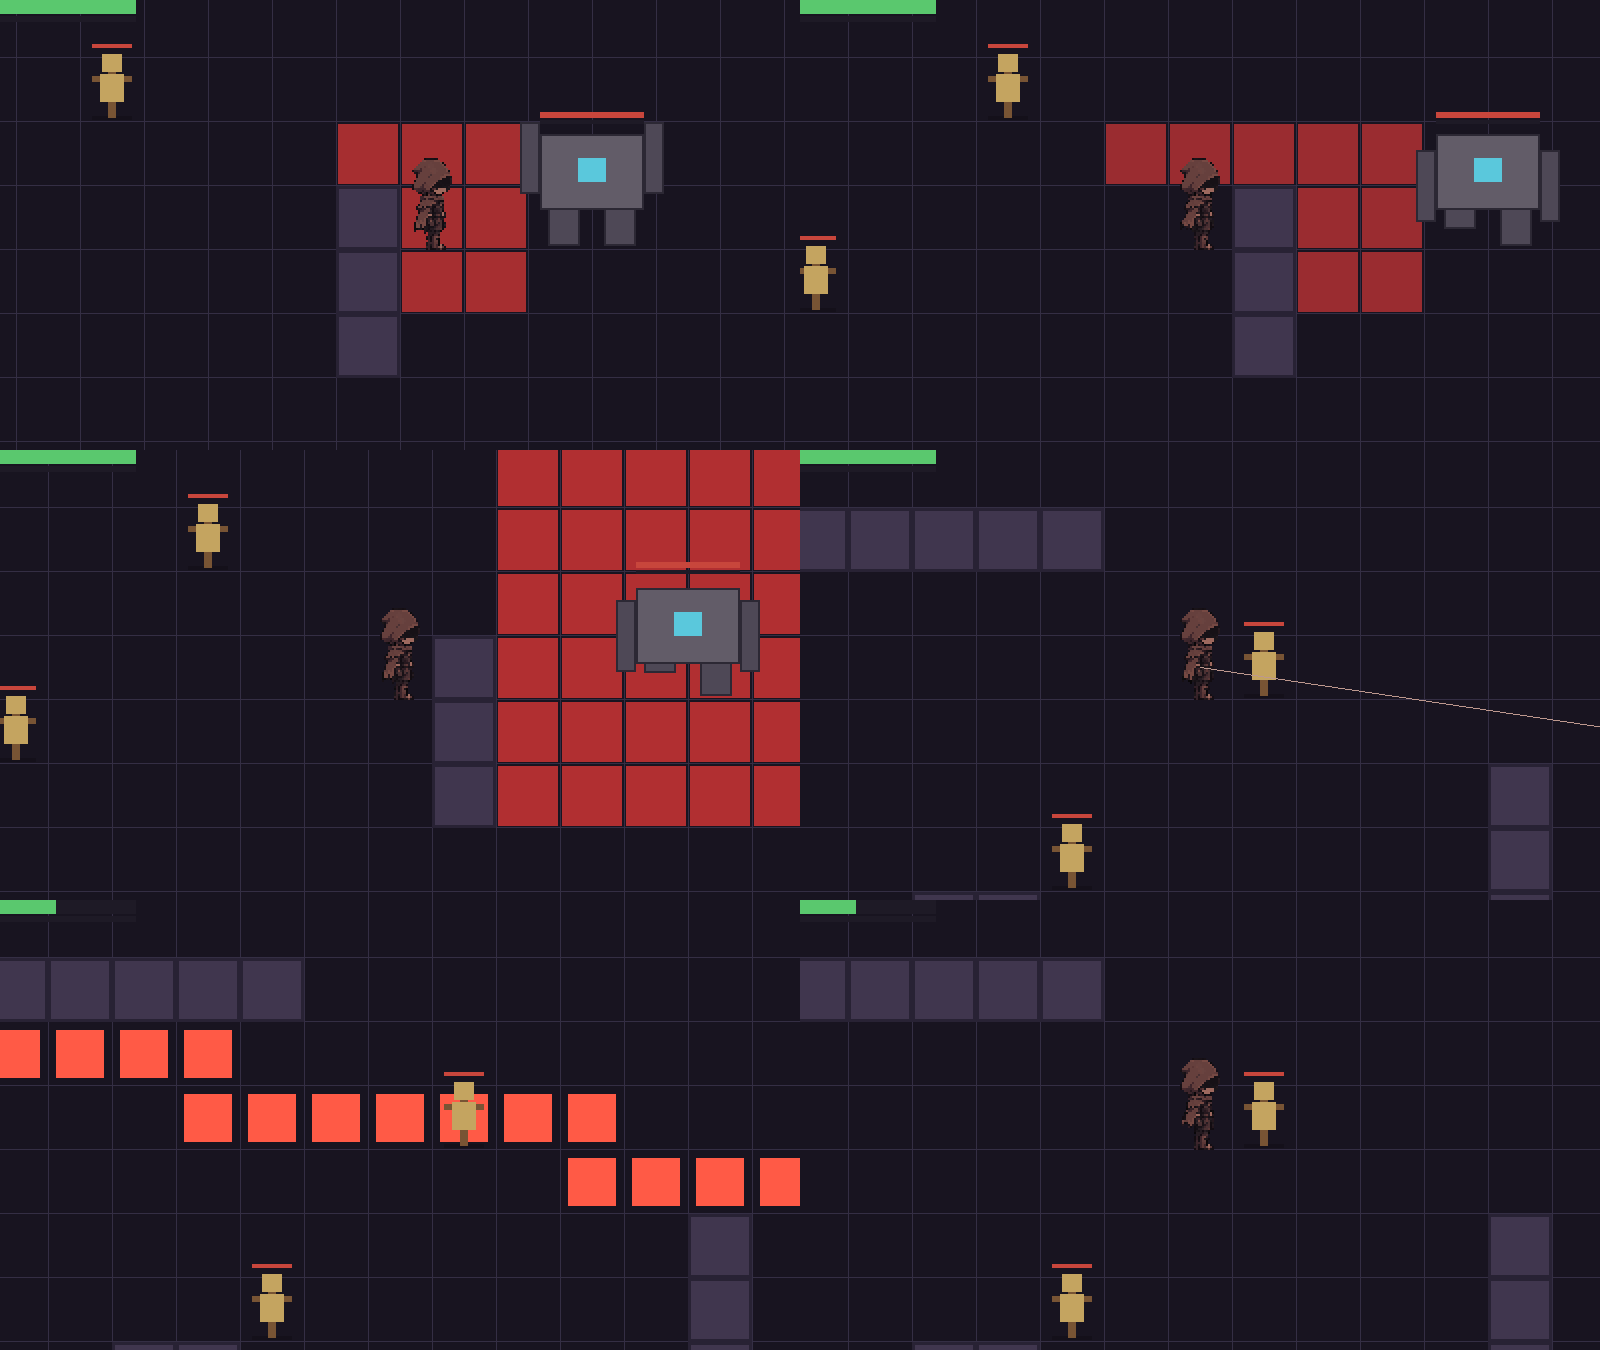
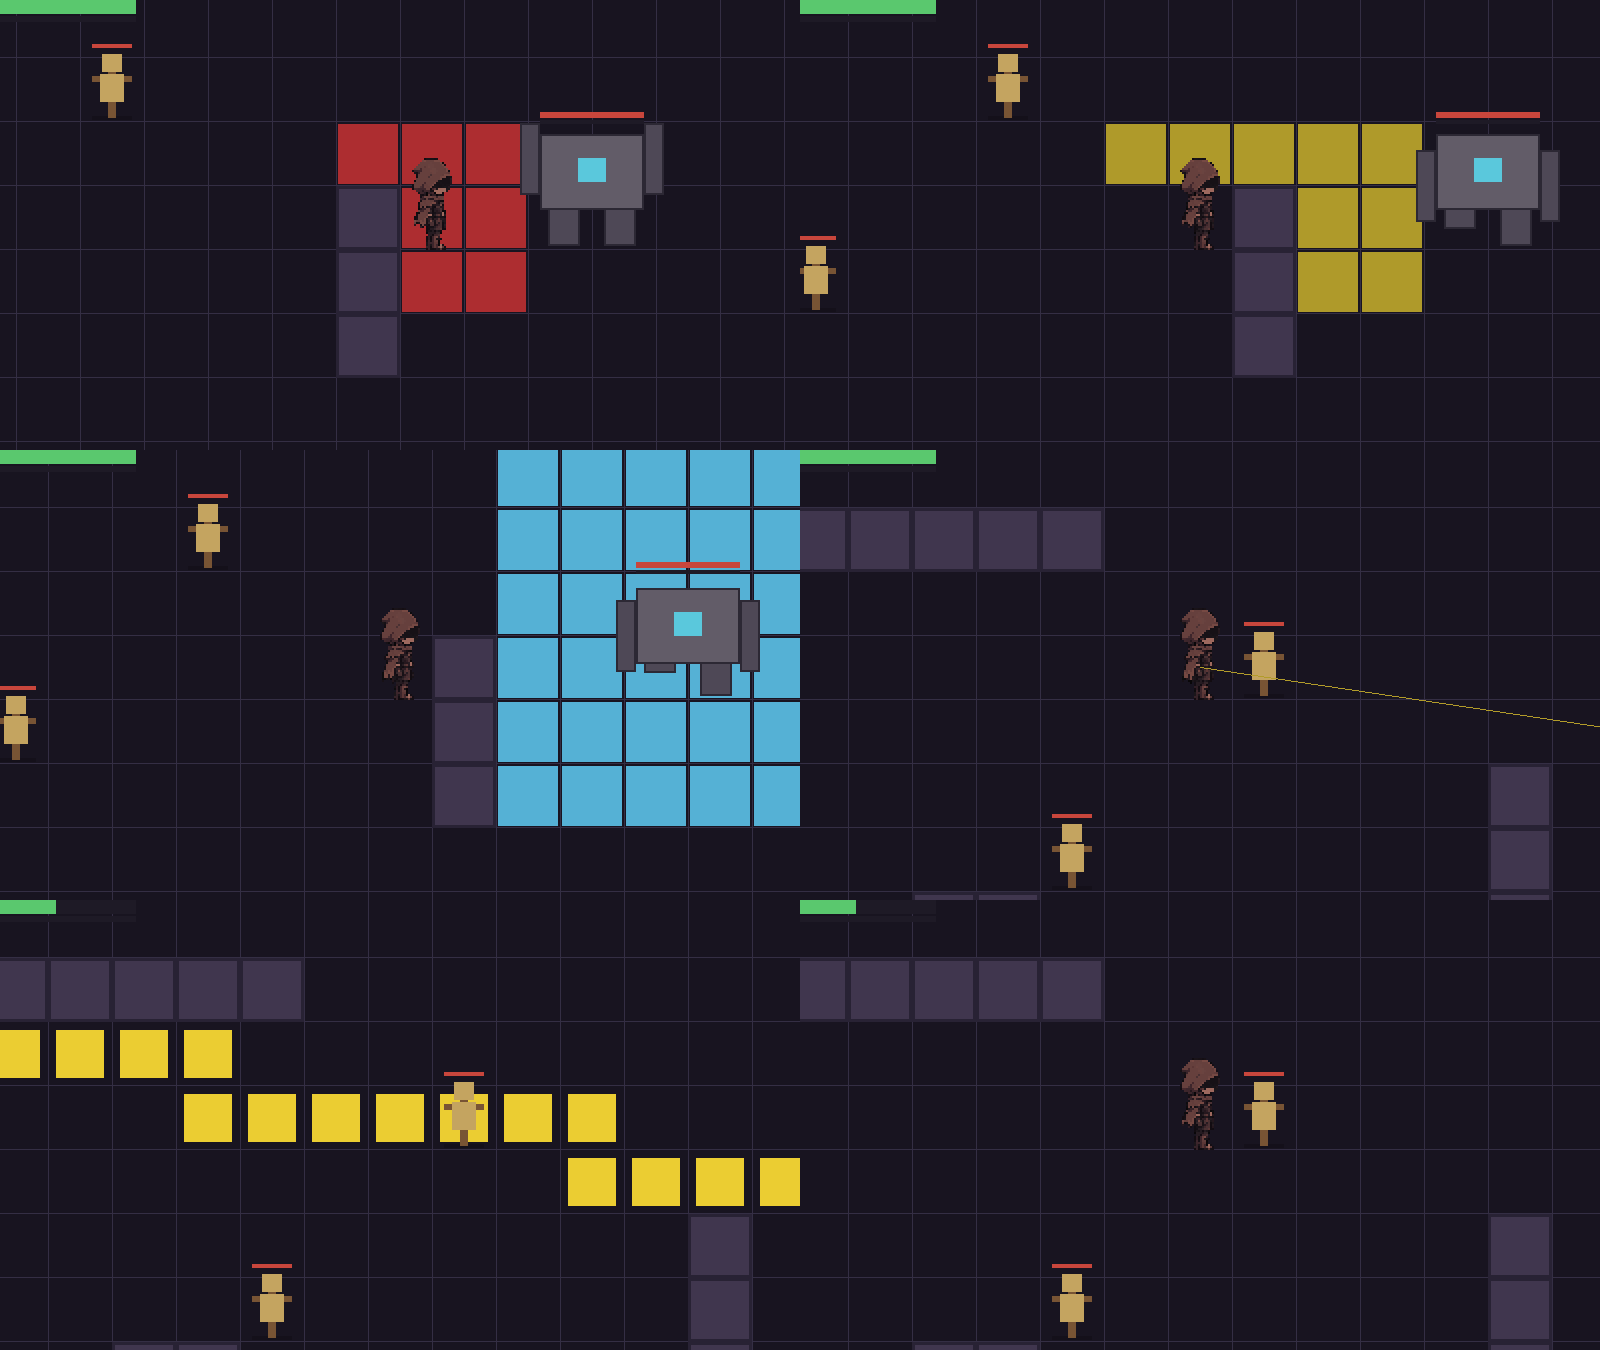
feat: 공격 종류별 예고 칸 색, 앞차기 예고 0.6초
- 예고 칸(히트박스) 색: 패링 가능 빨강, 패링 불가 노랑, 점프로만 피함 하늘색 (터지기 직전일수록 진하게)
- 패턴별 피하는 규칙을 PATTERN_RULES 하나로 모으고 공격 생성과 색이 같이 씀
- ② 앞차기 예고 0.3 → 0.6초 (사용자 요청)
- 테스트: 종류별 색, 예고 진행에 따라 진해짐

Changed region(s): [[0.3125, 0.3111, 0.5, 0.6222], [0.0, 0.7467, 0.5, 0.9022], [0.6875, 0.0933, 0.9062, 0.2489]]

diff --git a/game/enemies/golem.py b/game/enemies/golem.py
@@ -25,6 +25,23 @@ from game.world.grid import Grid
 SLAM, KICK, STOMP, LASER = "slam", "kick", "stomp", "laser"
 REST, WALK, WINDUP, RECOVER, STUNNED, DEAD = "rest", "walk", "windup", "recover", "stunned", "dead"
 PATTERNS = {SLAM: config.GOLEM_SLAM, KICK: config.GOLEM_KICK, STOMP: config.GOLEM_STOMP, LASER: config.GOLEM_LASER}
+# 패턴별로 피하는 방법: 패링 가능 / 회피 무적으로 피함 / 점프(공중)로 피함
+PATTERN_RULES = {
+    SLAM: {"parryable": True, "dodgeable": True, "jumpable": False},
+    KICK: {"parryable": False, "dodgeable": True, "jumpable": False},
+    STOMP: {"parryable": False, "dodgeable": False, "jumpable": True},
+    LASER: {"parryable": False, "dodgeable": True, "jumpable": False},
+}
+
+
+def warning_kind(pattern: str) -> str:
+    """예고 칸 색 종류: 패링 가능(빨강) / 패링 불가(노랑) / 점프로만 피함(하늘색)."""
+    rules = PATTERN_RULES[pattern]
+    if rules["parryable"]:
+        return "parryable"
+    if rules["jumpable"] and not rules["dodgeable"]:
+        return "jump_only"
+    return "unparryable"
 
 Tile = tuple[int, int]
 
@@ -289,18 +306,12 @@ class Golem:
 
     def _release(self) -> None:
         spec = PATTERNS[self.pattern]
-        if self.pattern == SLAM:
-            attack = EnemyAttack(self.target_tiles, spec["damage"], parryable=True, dodgeable=True, direction=self.facing)
-        elif self.pattern == KICK:
-            attack = EnemyAttack(self.target_tiles, spec["damage"], parryable=False, dodgeable=True, direction=self.facing)
-        elif self.pattern == STOMP:
-            attack = EnemyAttack(self.target_tiles, spec["damage"], parryable=False, dodgeable=False, jumpable=True)
-        else:
-            self.beam_tiles = self.laser_tiles()
+        tiles = self.target_tiles
+        if self.pattern == LASER:
+            tiles = self.beam_tiles = self.laser_tiles()
             self.beam_left = spec["beam_time"]
             self.laser_cooldown_left = config.GOLEM_LASER_COOLDOWN
-            attack = EnemyAttack(self.beam_tiles, spec["damage"], parryable=False, dodgeable=True, direction=self.facing)
-        self.attacks.append(attack)
+        self.attacks.append(EnemyAttack(tiles, spec["damage"], direction=self.facing, **PATTERN_RULES[self.pattern]))
         self.state = RECOVER
         self.state_left = config.GOLEM_RECOVER_TIME
         self.target_tiles = frozenset()
@@ -309,11 +320,18 @@ class Golem:
     def draw_warning(self, renderer, grid: Grid) -> None:
         """공격 예고 칸과 레이저 (주인공·골렘보다 먼저, 바닥에 그린다)."""
         if self.state == WINDUP and self.target_tiles:
-            color = _lerp_color(config.COLOR_WARN_FAINT, config.COLOR_WARN_STRONG, self.windup_progress)
+            color = self.warning_color()
             for col, row in self.target_tiles:
                 renderer.fill_tile(grid, col, row, color, inset=2)
-        for col, row in self.beam_tiles:
-            renderer.fill_tile(grid, col, row, config.COLOR_LASER, inset=8)
+        if self.beam_tiles:
+            beam = config.COLOR_WARN[warning_kind(LASER)][1]
+            for col, row in self.beam_tiles:
+                renderer.fill_tile(grid, col, row, beam, inset=8)
+
+    def warning_color(self) -> tuple[int, int, int]:
+        """지금 예고 중인 공격의 색 (종류별 색, 터지기 직전일수록 진하게)."""
+        faint, strong = config.COLOR_WARN[warning_kind(self.pattern)]
+        return _lerp_color(faint, strong, self.windup_progress)
 
     def draw(self, renderer, grid: Grid) -> None:
         if not self.alive:
@@ -353,8 +371,9 @@ class Golem:
         core = _lerp_color(config.COLOR_GOLEM_CORE, config.COLOR_GOLEM_CORE_HOT, heat)
         renderer.fill_rect(cx - 7 * s, bottom + 34 * s - crouch, cx + 7 * s, bottom + 46 * s - crouch, core)
         if self.state == WINDUP and self.pattern == LASER:
+            # 조준선: 레이저도 패링 불가 공격이라 노란색 (발사가 가까울수록 진하게)
             ax, ay = grid.tile_to_pixel(self.aim[0] - 0.5, self.aim[1] - 0.5)
-            renderer.draw_line(cx, bottom + 40 * s - crouch, ax, ay, core)
+            renderer.draw_line(cx, bottom + 40 * s - crouch, ax, ay, self.warning_color())
         # 체력·패링 게이지 막대
         bar_top = bottom + 66 * s
         renderer.fill_rect(cx - 26 * s, bar_top, cx + 26 * s, bar_top + 3 * s, config.COLOR_BAR_BACK)

diff --git a/game/config.py b/game/config.py
@@ -174,7 +174,7 @@ GOLEM_HIT_FLASH_TIME = 0.1
 # 패턴: 예고 시간(초), 피해, 범위. 앞쪽 범위는 (가로 칸 수, 앞으로 칸 수).
 # 2026-11-17 사용자 요청: 예고가 길어 걸어서 쉽게 빠져나가서 ① 0.8 → 0.35, ② 0.6 → 0.3, ③ 1.2 → 0.55초
 GOLEM_SLAM = {"windup": 0.35, "damage": 20, "width": 3, "depth": 3}  # ① 두 손 모아 내려찍기: 패링 가능
-GOLEM_KICK = {"windup": 0.3, "damage": 15, "width": 3, "depth": 5}  # ② 뒤로 들었다 앞차기: 패링 불가, 회피 무적 가능
+GOLEM_KICK = {"windup": 0.6, "damage": 15, "width": 3, "depth": 5}  # 2026-11-17 사용자 요청으로 예고 0.3 → 0.6초  # ② 뒤로 들었다 앞차기: 패링 불가, 회피 무적 가능
 GOLEM_STOMP = {"windup": 0.55, "damage": 30, "size": 6}  # ③ 한 발 내려찍기: 중심 6×6, 점프로만 피함
 # ④ 코어 레이저: 4초 조준(조준선이 발사 순간까지 주인공을 따라옴, 2026-11-17 사용자 결정) 후 벽까지 일직선. 회피 무적으로만 피함
 GOLEM_LASER = {"windup": 4.0, "damage": 40, "beam_time": 0.3}
@@ -210,9 +210,12 @@ COLOR_GOLEM_LIMB = (78, 72, 86)
 COLOR_GOLEM_EDGE = (44, 40, 52)
 COLOR_GOLEM_CORE = (90, 200, 220)
 COLOR_GOLEM_CORE_HOT = (255, 120, 90)
-COLOR_WARN_FAINT = (90, 36, 44)  # 공격 예고 칸: 처음
-COLOR_WARN_STRONG = (200, 50, 50)  # 터지기 직전
-COLOR_LASER = (255, 90, 70)
+# 공격 예고 칸(히트박스) 색: 공격 종류별로 (처음 색, 터지기 직전 색). 2026-11-17 사용자 결정.
+COLOR_WARN = {
+    "parryable": ((90, 36, 44), (215, 50, 50)),  # 패링 가능한 일반 공격: 빨강
+    "unparryable": ((92, 82, 30), (235, 205, 50)),  # 패링 불가 (회피로 피함): 노랑
+    "jump_only": ((30, 72, 92), (100, 205, 245)),  # 점프로만 피함: 하늘색
+}
 COLOR_POSTURE = (230, 200, 90)
 COLOR_PLAYER_HP = (90, 200, 110)
 COLOR_BAR_BACK = (30, 26, 38)

diff --git a/tests/test_golem.py b/tests/test_golem.py
@@ -76,6 +76,32 @@ class GolemAreaTest(unittest.TestCase):
         self.assertEqual(self.golem.laser_tiles(), {(c, 5) for c in range(1, 6)})
 
 
+class WarningColorTest(unittest.TestCase):
+    def test_color_by_attack_kind(self):
+        from game.enemies.golem import warning_kind
+        self.assertEqual(warning_kind(SLAM), "parryable")  # 빨강
+        self.assertEqual(warning_kind(KICK), "unparryable")  # 노랑
+        self.assertEqual(warning_kind(LASER), "unparryable")
+        self.assertEqual(warning_kind(STOMP), "jump_only")  # 하늘색
+
+    def test_warning_tiles_drawn_in_kind_color_getting_stronger(self):
+        golem = Golem(6, 4, open_room(), FixedRng(STOMP))
+        golem._windup(STOMP, (5, 4))
+        calls = []
+
+        class Rec:
+            def fill_tile(self, grid, col, row, color, inset=0):
+                calls.append(color)
+
+        golem.draw_warning(Rec(), Grid(16, 10, 64))
+        faint, strong = config.COLOR_WARN["jump_only"]
+        self.assertEqual(set(calls), {faint})
+        golem.state_left = 0.0001  # 터지기 직전
+        calls.clear()
+        golem.draw_warning(Rec(), Grid(16, 10, 64))
+        self.assertEqual(set(calls), {strong})
+
+
 class GolemBehaviorTest(unittest.TestCase):
     def make(self, pick, roll=0.0):
         self.golem = Golem(6, 4, open_room(), FixedRng(pick, roll))

diff --git a/PRE-PRD.md b/PRE-PRD.md
@@ -147,7 +147,8 @@
 - **[확정]** 첫 일반 몬스터: **골렘** (몬스터형, 2026-11-17 사용자 결정, 수치는 임시값)
   - 몬스터형이라 패링당하거나 맞아도 경직이 없고, 패링 게이지는 차서 가득 차면 약 2초 기절합니다.
   - 그림은 팔·다리를 나눠 역동적으로 그릴 예정입니다 (지금은 부위별 임시 도형).
-  - 패턴 (예고 후 터짐, 예고 칸을 붉게 표시):
+  - 패턴 (예고 후 터짐). 예고 칸(히트박스) 색은 공격 종류별 (2026-11-17 사용자 결정):
+    **패링 가능한 일반 공격 = 빨강**, **패링 불가(회피로 피함) = 노랑**, **점프로만 피함 = 하늘색**. 터지기 직전일수록 진해집니다.
     - ① 두 손 모아 앞으로 내려찍기, 앞 **3×3**, **패링 가능**
     - ② 발을 뒤로 들었다 앞으로 차기, 앞 **3×5**(가로 3 × 앞으로 5), 패링 불가 (회피 무적으로 피함)
     - ③ 한 발 들고 내려찍기, 중심 **6×6**, 회피·패링 불가 → **점프로 피함** (하단 공격)
@@ -155,7 +156,7 @@
       조준점은 **발사 순간까지** 주인공을 그대로 따라옵니다 (2026-11-17 사용자 결정) → 걸어서는 못 피하고 회피 타이밍으로 피함
   - Claude 제안 수치 (사용자 승인, 임시값): 2×2칸, 체력 300, 초당 1.5칸 이동, 가까우면(2칸) ~~①·③~~ ①·②·③ (2026-11-17 사용자 요청), 중간(5칸) ② 또는 다가감,
     멀면 ④(8초에 한 번까지) 또는 다가감 (2026-11-17 골렘이 다가오지 않아 수정),
-    패턴 사이 1.5초 쉼, 예고 ~~① 0.8초 ② 0.6초 ③ 1.2초~~ → **① 0.35초 ② 0.3초 ③ 0.55초** (2026-11-17 사용자 결정: 걸어서 쉽게 빠져나가서),
+    패턴 사이 1.5초 쉼, 예고 ~~① 0.8초 ② 0.6초 ③ 1.2초~~ → **① 0.35초 ② ~~0.3초~~ 0.6초 ③ 0.55초** (2026-11-17 사용자 결정: 걸어서 쉽게 빠져나가서. ② 는 같은 날 0.6초로),
     피해 ① 20 ② 15 ③ 30 ④ 40. 죽으면 3초 뒤 같은 자리에 다시 나타남(시험용).
 - **[확정]** 주인공 체력 100, 맞으면 짧게 경직(약 0.3초) + 깜빡임 (2026-11-17 사용자 결정). 사망은 [미정]이라 지금은 체력이 0 이 되면 그 자리에서 다시 채웁니다.
 
@@ -277,6 +278,7 @@
 
 | 날짜 | 내용 | 작성 |
 |---|---|---|
+| 2026-11-17 | 사용자 결정으로 골렘 ② 앞차기 예고 0.3 → 0.6초, 예고 칸 색을 공격 종류별로(빨강 패링 가능 / 노랑 패링 불가 / 하늘색 점프로만) (2.4) | Claude Code |
 | 2026-11-17 | 사용자 요청으로 회피 대기 1초 → 8초, 골렘이 가까울 때 앞차기도 씀 (2.2, 2.4) | Claude Code |
 | 2026-11-17 | 사용자 결정으로 골렘 예고 단축(① 0.35 ② 0.3 ③ 0.55초), 레이저 조준은 발사 순간까지 주인공을 따라옴 (2.4) | Claude Code |
 | 2026-11-17 | 사용자 결정으로 주인공 이동 속도 6 → 4칸/초. 골렘이 다가오도록 패턴 고르기 수정(레이저 8초에 한 번, 중간 거리는 차기 또는 다가감) (2.1, 2.4) | Claude Code |

diff --git a/docs/DECISIONS.md b/docs/DECISIONS.md
@@ -342,5 +342,7 @@
 - 2026-11-17 수정: 골렘이 멀 때 레이저만 쏘고 다가오지 않던 문제 → 레이저는 `GOLEM_LASER_COOLDOWN`(8초)에 한 번,
   멀 때 `GOLEM_LASER_CHANCE`, 중간 거리는 `GOLEM_KICK_CHANCE` 로 차기 아니면 다가감. 걸을 때는 쉬지 않고 이어서 걷는다.
   주인공 이동 속도 `PLAYER_MOVE_SPEED` 6 → 4칸/초 (사용자 결정).- 2026-11-17 수정: 골렘 예고 ① 0.8 → 0.35, ② 0.6 → 0.3, ③ 1.2 → 0.55초. 레이저 조준점은 발사 순간까지 주인공 칸을 그대로 따라온다
-  (이전: 초당 4칸까지만) → 걸어서는 못 피하고 회피 무적으로 피한다 (사용자 결정).- 2026-11-17 수정: 골렘이 가까울 때(`GOLEM_NEAR`) ①·②·③ 중에서 고른다 (사용자 요청: 가까이 있을 때 앞차기가 안 나옴).
+  (이전: 초당 4칸까지만) → 걸어서는 못 피하고 회피 무적으로 피한다 (사용자 결정).- 2026-11-17 수정: 골렘이 가까울 때(`GOLEM_NEAR`) ①·②·③ 중에서 고른다 (사용자 요청: 가까이 있을 때 앞차기가 안 나옴).- 2026-11-17 수정: ② 앞차기 예고 0.3 → 0.6초. 예고 칸 색은 `golem.PATTERN_RULES`(패턴별 parryable / dodgeable / jumpable)에서
+  `warning_kind` 로 정한다: 패링 가능 → 빨강, 점프로만 피함 → 하늘색, 그 밖의 패링 불가 → 노랑 (`config.COLOR_WARN`).
+  레이저 조준선과 발사 칸도 노랑. 같은 규칙을 다른 몬스터에도 쓴다 (사용자 결정).
 
